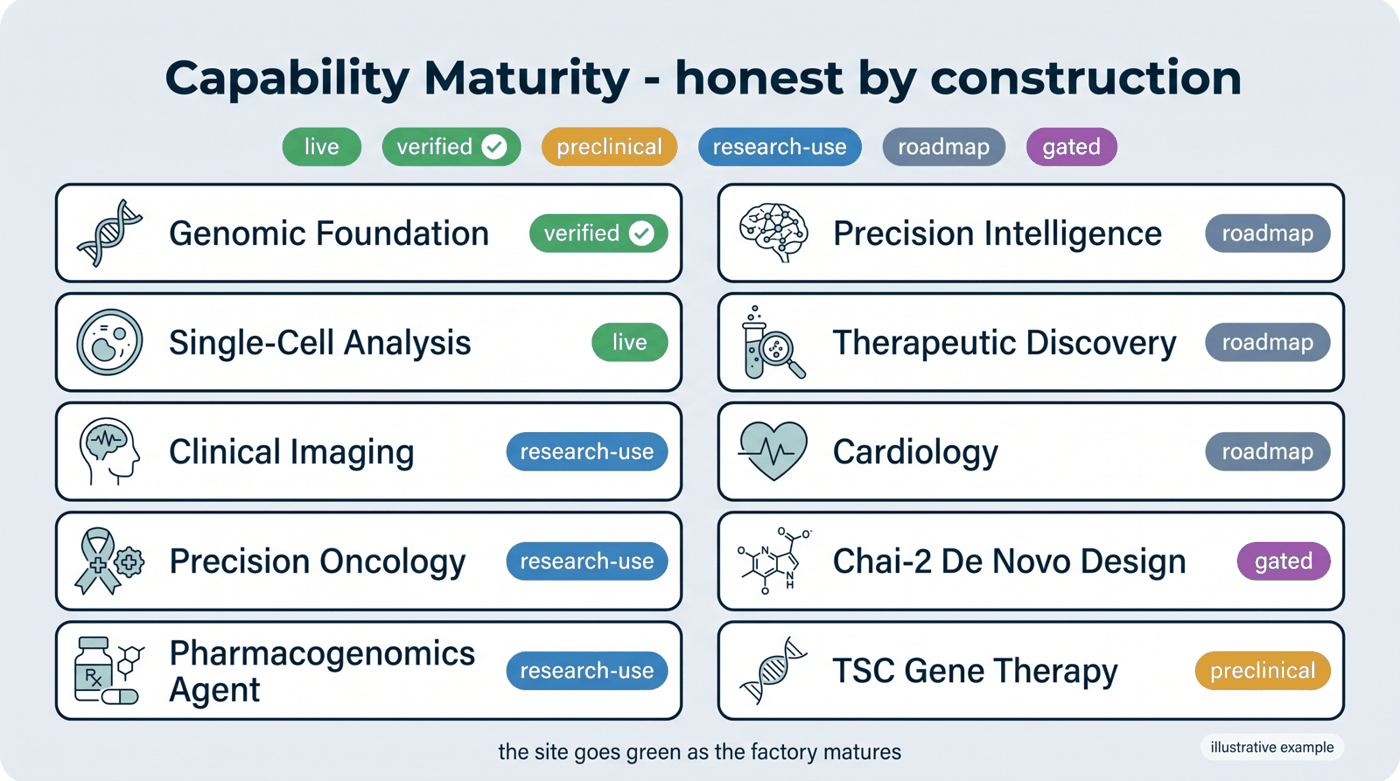
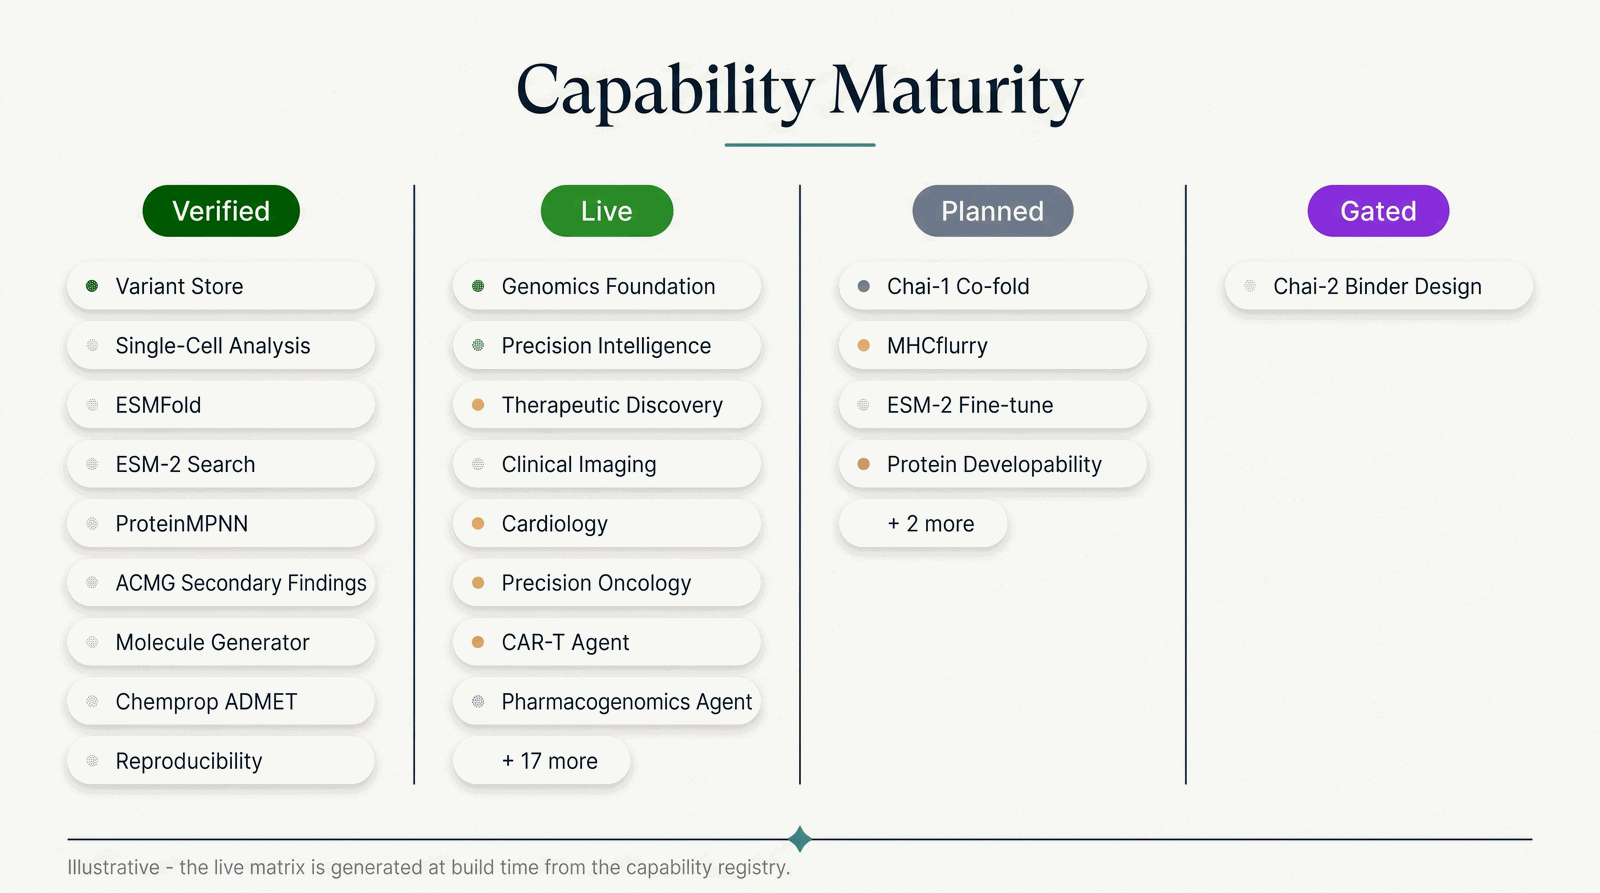
Site: warm/jade infographic family — 16 detail heros, 4 diagrams, 7 re-runs (#97)
Generate the full house-style infographic set in the new 'clinical nocturne'
palette (warm paper, deep ink, jade, one amber highlight; serif titles):

- 16 per-capability detail heros (ingest -> compute/reason -> output, honest
  status badge, decision-support footer), wired into site_gen_pages.py so each
  engine/agent detail page opens with its own flow diagram. Keyed by registry
  id (oncology/cardiology/imaging carry legacy agent ids).
- 4 new supporting diagrams: decision-support (clinician-in-the-loop),
  governance & lineage, reproducibility ('real, never mocked'), roadmap
  maturity-progression — placed on their pages, all captioned.
- Re-ran the existing 7 (dna-to-drug, eight-engines, eight-agents,
  elastic-burst, maturity-matrix, one-platform, tsc-flagship) in the warm
  palette so the whole set is pixel-consistent. The maturity-matrix uses the
  real registry capability names (not invented ones); it and the roadmap defer
  to the live registry-generated matrix as source of truth.

All 27 resized to 1600px + quantized (3.3 MB total). Honest by construction:
illustrative captions, decision-support labels, real tool names only.

Changed region(s): [[0.0307, 0.0615, 0.9829, 0.9834], [0.9521, 0.799, 0.9829, 0.8297]]

diff --git a/scripts/site_gen_pages.py b/scripts/site_gen_pages.py
@@ -39,6 +39,23 @@ def ports_table(ports: list) -> str:
     return "\n".join(rows)
 
 
+def _hero(c: dict) -> str:
+    """Embed the capability's flow-diagram hero if one has been drawn for it (keyed by id).
+
+    Returns markdown (image + illustrative caption) or an empty string if no hero exists, so the
+    detail page degrades cleanly for any capability that hasn't been illustrated yet.
+    """
+    img = ROOT / "docs" / "assets" / "infographics" / "heros" / f"{c['id']}.png"
+    if not img.exists():
+        return ""
+    return (
+        f"![{c['name']} — what it takes in, what it computes, what it returns]"
+        f"(../../assets/infographics/heros/{c['id']}.png)\n"
+        "/// caption\nIllustrative. Decision support for a qualified clinician — never autonomous "
+        "diagnosis or prescribing.\n///\n"
+    )
+
+
 def detail_page(c: dict, kind: str) -> str:
     ep = c.get("endpoint") or "—"
     lines = [
@@ -49,6 +66,8 @@ def detail_page(c: dict, kind: str) -> str:
         "",
         c.get("description", ""),
         "",
+        # Registry-sourced hero: ingest -> compute/reason -> output, honest status + decision-support.
+        _hero(c),
         "## Interface",
         "",
         f"- **Endpoint:** `{ep}`  ·  **Invoke path:** `{c.get('invoke_path', '/')}`",

diff --git a/docs/run/reproducibility.md b/docs/run/reproducibility.md
@@ -8,6 +8,11 @@ description: Pinned, verifiable inputs — the reproducible build and the versio
 A result you can't reproduce isn't evidence. The factory is built so its inputs are pinned and its
 public datasets are versioned — so a `verified` badge means the same thing tomorrow as today.
 
+![Real, never mocked — real public input, real run on real hardware, recorded output](../assets/infographics/reproducibility.png)
+/// caption
+Fork it and run it yourself — the output is recorded, not asserted (e.g. HG002 Ts/Tv ≈ 2.0).
+///
+
 ## Reproducible by construction
 
 - **Pinned build** — the docs site and the platform pin their generators; CI runs the real gate

diff --git a/docs/honesty/governance.md b/docs/honesty/governance.md
@@ -9,6 +9,11 @@ Trust in a clinical-decision-support system is not a slogan — it's enforced at
 capability. Governance in the HCLS AI Factory is **mechanical**: the registry is the source of truth,
 and every governed run passes through the same gates.
 
+![Governed by construction — request, governance gate, capability run, signed lineage record](../assets/infographics/governance-lineage.png)
+/// caption
+Every capability call passes the gate and leaves an auditable, 21 CFR Part 11-style record.
+///
+
 ## The gates every governed run passes
 
 - **Input-validation gate** — parameters are checked against each capability's typed contract (allowed

diff --git a/docs/roadmap.md b/docs/roadmap.md
@@ -8,6 +8,11 @@ description: What is live, planned, and preclinical in the HCLS AI Factory — a
 The factory and this site grow together, in public. The **[Capability Maturity
 Matrix](honesty/maturity-matrix.md)** is the live scorecard; this page is the honest direction.
 
+![The site goes green as the factory matures — roadmap to planned to live to verified](assets/infographics/roadmap.png)
+/// caption
+Every capability advertises its real status, generated from the registry — the site cannot claim ahead of the code.
+///
+
 ## Platform
 
 - **Live today** — the platform library (capability registry, MCP tool-surface, workflow composer,

diff --git a/docs/honesty/decision-support.md b/docs/honesty/decision-support.md
@@ -11,6 +11,11 @@ clinical surface — every engine, every intelligence agent, the TSC program —
 treat.** This posture is not a disclaimer bolted on at the end; it is a design constraint the whole
 system is built around.
 
+![Decision support, not diagnosis — the factory proposes, a qualified clinician decides](../assets/infographics/decision-support.png)
+/// caption
+The factory proposes; a qualified clinician decides. Never autonomous diagnosis or prescribing.
+///
+
 ## What that means concretely
 
 - An intelligence agent **recommends and flags** — it never *makes* the call. A pharmacogenomic dosing
